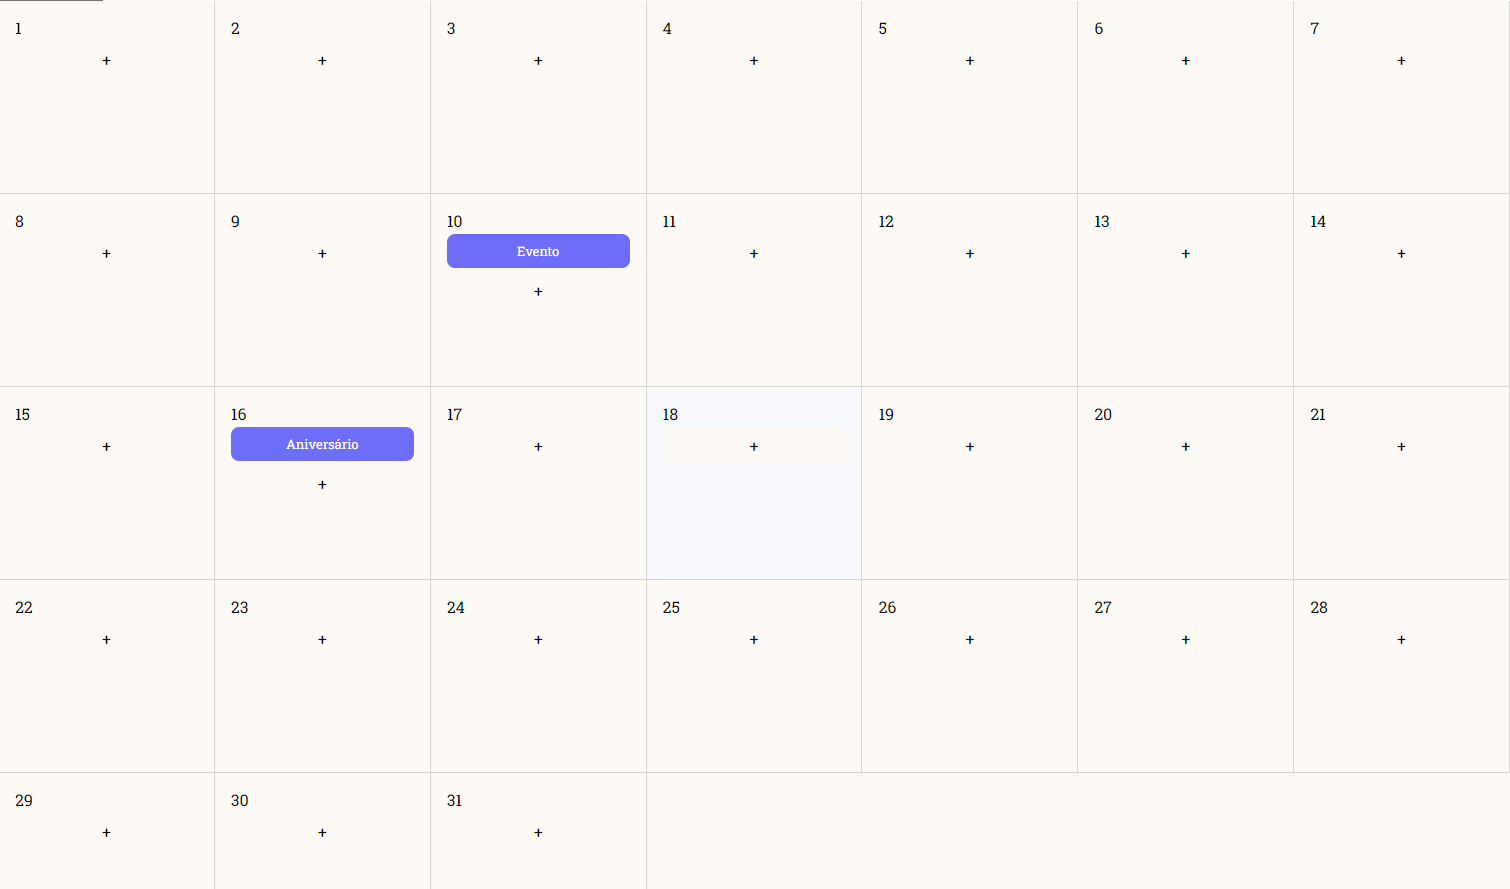
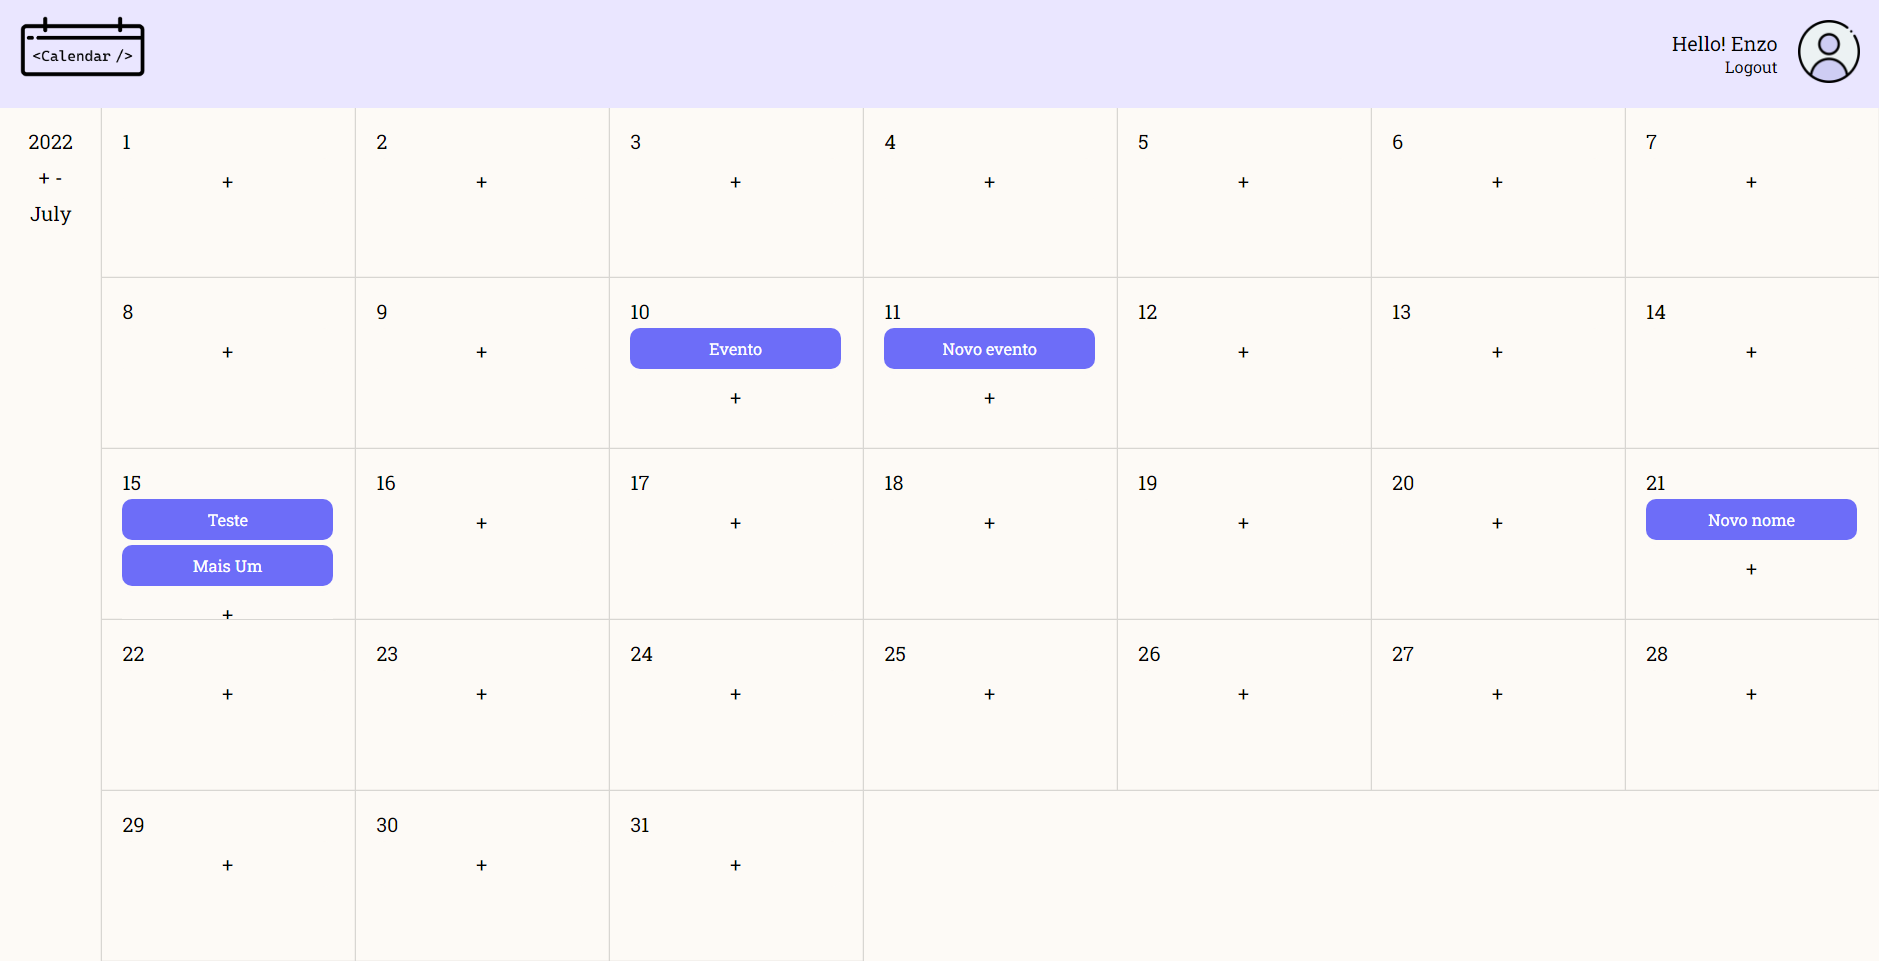
Fixed Calendar layout

diff --git a/front-end/src/components/Hero/DateSelector/Selectors.module.css b/front-end/src/components/Hero/DateSelector/Selectors.module.css
@@ -1,20 +1,27 @@
 .layout{
+  padding: 1rem 0rem;
   display: flex;
-  border: solid;
-  padding: 0.5rem;
-  gap: 1rem;
+  gap: 0.5rem;
+  background-color: rgb(253 250 246);
+  border-right: solid 1px rgba(0, 0, 0, 0.144);
+  flex-direction: column;
 }
 
 .month{
   -webkit-appearance: none;
+  text-align: center;
+  background: none;
   border: none;
-  font-size: small;
   cursor: pointer;
+  box-sizing: content-box;
 }
 
 .year{
   display: flex;
+  flex-direction: column;
+  align-items: center;
   gap: 0.5rem;
+  cursor: default;
 }
 
 .arrowsLayout{
@@ -24,5 +31,6 @@
 
 .arrows{
   border: none;
-  background: none;            
+  background: none;
+  cursor: pointer;
 }

diff --git a/front-end/src/index.js b/front-end/src/index.js
@@ -13,7 +13,7 @@ import styles from './Page.module.css';
 
 const root = ReactDOM.createRoot(document.getElementById('root'));
 root.render(
-  <div className={styles.page}>
+  <div className={styles.container}>
     <BrowserRouter>
       <React.StrictMode>
         <Routes>

diff --git a/front-end/src/index.css b/front-end/src/index.css
@@ -1,6 +1,9 @@
-* {
+*,
+*:before,
+*:after {
   margin: 0;
   padding: 0;
+  box-sizing: border-box;
   font-size: 16px;
   font-family: 'Roboto Slab', serif;
 }

diff --git a/front-end/src/components/Hero/Hero.module.css b/front-end/src/components/Hero/Hero.module.css
@@ -1,7 +1,8 @@
 .hero {
-  display: flexbox;
+  flex: 1;
+  display: flex;
   width: 100%;
-  height: 100%;
+  height: 0;
 }
 
 .modal {

diff --git a/front-end/src/components/Hero/Calendar/Calendar.module.css b/front-end/src/components/Hero/Calendar/Calendar.module.css
@@ -4,5 +4,4 @@
   grid-template-columns: repeat(7, 1fr);
   grid-template-rows: repeat(5, 1fr);
   width: 100%;
-  height: 100%;
 }

diff --git a/front-end/src/Page.module.css b/front-end/src/Page.module.css
@@ -1,4 +1,4 @@
-.page{
+.container{
   display: flex;
   flex-direction: column;
   height: 100%;

diff --git a/README.md b/README.md
@@ -25,10 +25,9 @@ Solução para o desafio Técnico para vaga de estágio na Tokenlab.
 
 Novo Estilo(v2)(Em desenvolvimento):
 
-- Estilo calendario:
-![Preview calendário desktop media](./Screenshot_3.png)
-
+- Layout da Página:
+  ![Preview Homepage desktop media](./Screenshot_3.png)
 
 - Estilo dos Modais:
-![Preview modal de criação de evento](./Screenshot_1.png)
-![Preview modal de edição de evento](./Screenshot_2.png)
+  ![Preview modal de criação de evento](./Screenshot_1.png)
+  ![Preview modal de edição de evento](./Screenshot_2.png)
